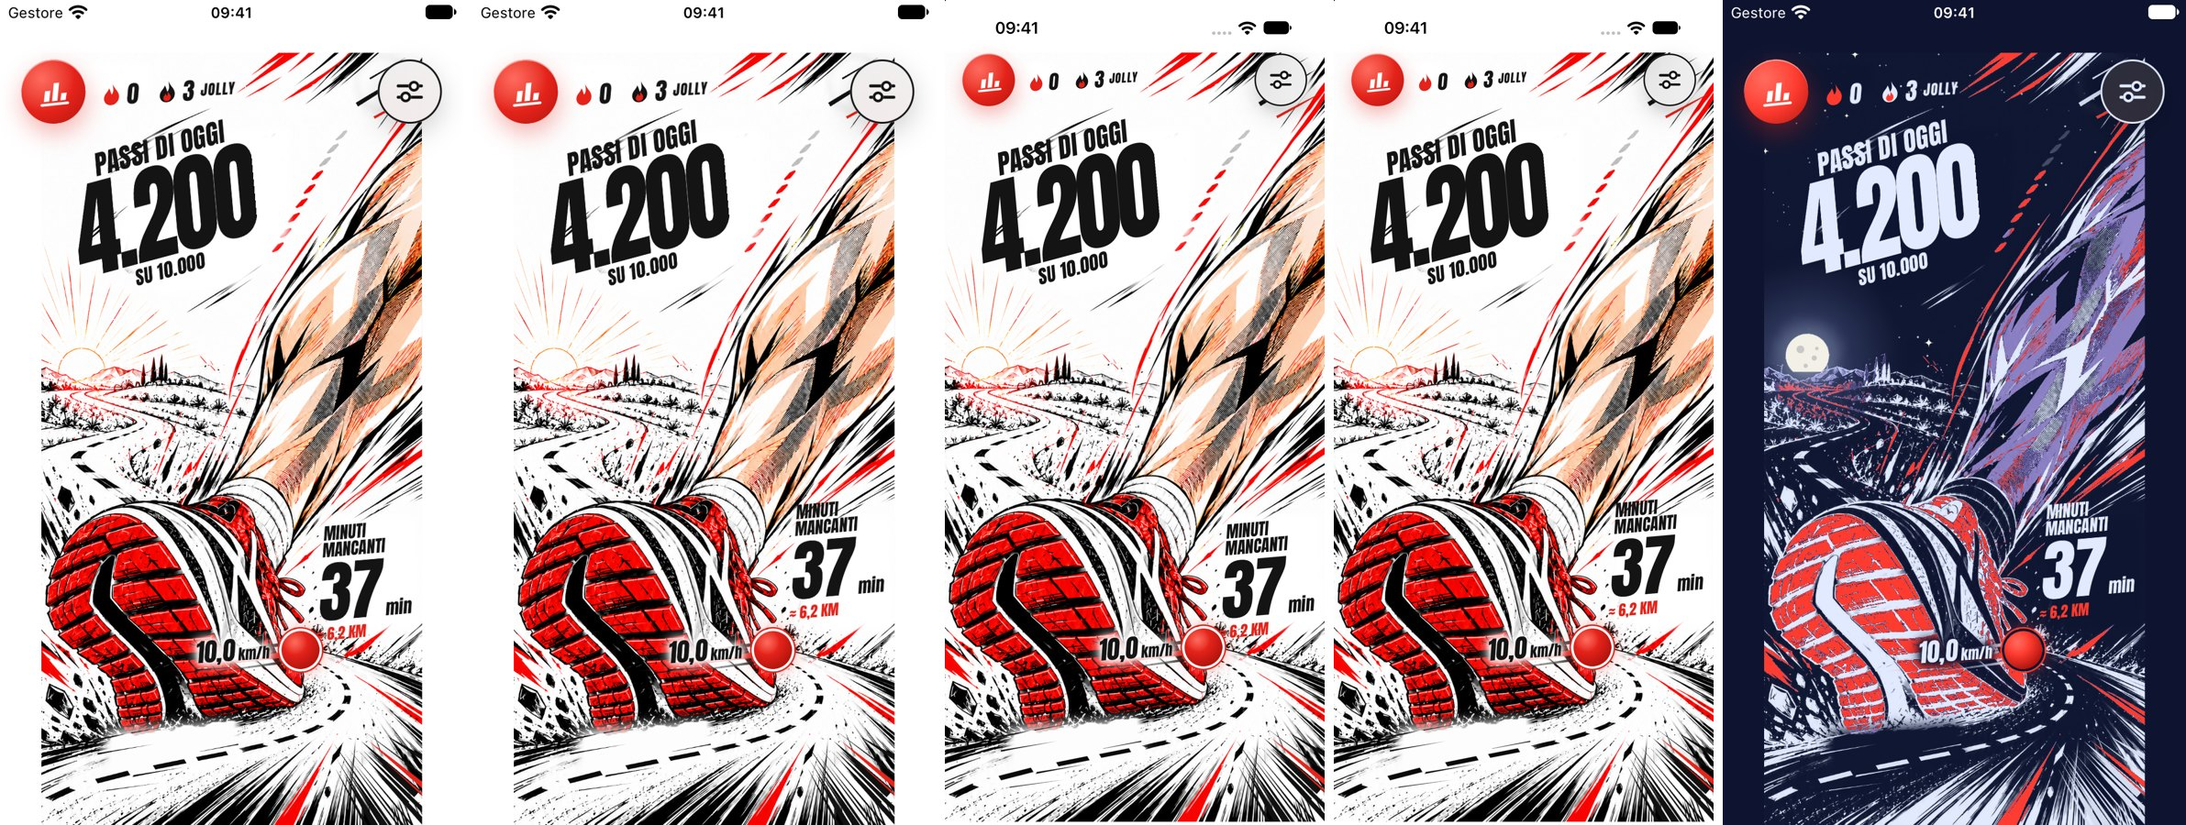
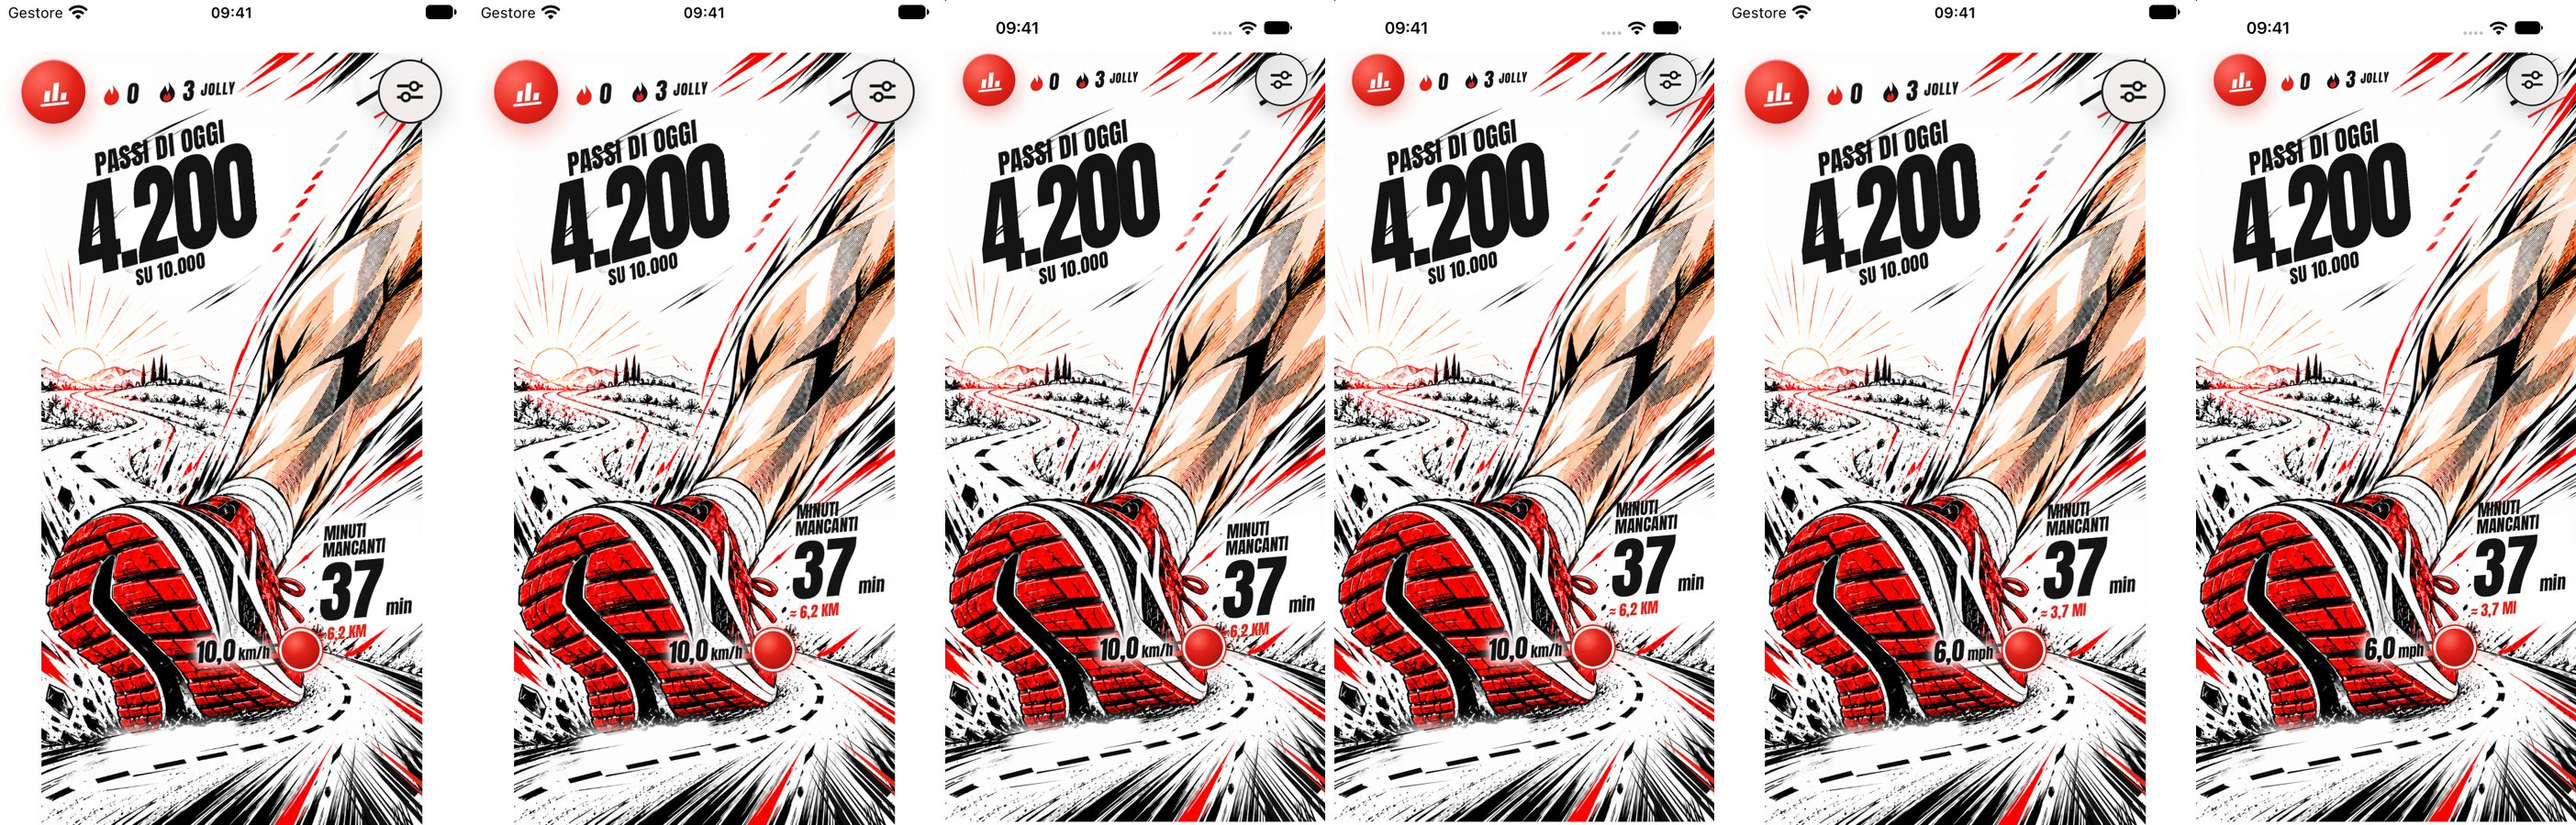
ios: T-018, correzioni dalla revisione (riempimento laterale, conti della coda, slitta), esito e screenshot

diff --git a/ios/App/Home/HomeView.swift b/ios/App/Home/HomeView.swift
@@ -11,6 +11,8 @@ struct HomeView: View {
     @State private var minutesWidth: CGFloat = 96
     @State private var doneWidth: CGFloat = 130
     @State private var motion = ParallaxMotion()
+    /// Never started: the leg of the soft fill on the sides stays still (rasterised once, T-018).
+    @State private var stillMotion = ParallaxMotion()
     @Environment(\.scenePhase) private var scenePhase
     @Environment(\.accessibilityReduceMotion) private var reduceMotion
     @Environment(\.season) private var season
@@ -25,16 +27,7 @@ struct HomeView: View {
             Board {
                 // in season the same scene drawn for it (snow in the picture, the boot as the leg, T-015 §2)
                 let look = season.map(SeasonLook.of)
-                if look != nil, side > 0 {
-                    // the scene to the edges of the screen, without bands: the same one, a little bigger and soft,
-                    // behind the real one (road and slider stay on the real one)
-                    scene(look)
-                        .scaleEffect((Manga.frameWidth + 2 * side) / Manga.frameWidth, anchor: .top)
-                        .blur(radius: 6, opaque: true)
-                        .accessibilityHidden(true)
-                        .at(0, Manga.artTop)
-                }
-                scene(look)
+                scene(look, motion: motion)
                     .at(0, Manga.artTop)
                 stepsBlock
                     .manga(rotate: -15, skew: -10, anchor: .topLeading)
@@ -64,6 +57,19 @@ struct HomeView: View {
             .animation(.easeInOut(duration: 0.25), value: store.plan.isDone)
         }
         .frame(width: size.width)
+        .background(alignment: .topLeading) {
+            // short phones, in season: the scene to the edges of the screen, without bands (T-018). The same one,
+            // stretched only across (every horizontal line meets the real one), soft and still, behind the canvas;
+            // road and slider stay on the real one. Drawn here, outside the canvas, in screen points.
+            if let look = season.map(SeasonLook.of), side > 0.5 {
+                scene(look, motion: stillMotion)
+                    .scaleEffect(x: size.width / Manga.frameWidth, y: s, anchor: .topLeading)
+                    .frame(width: size.width, height: Manga.artSize.height * s, alignment: .topLeading)
+                    .blur(radius: 6 * s, opaque: true)
+                    .offset(y: Manga.artTop * s)
+                    .accessibilityHidden(true)
+            }
+        }
         .onAppear { updateMotion() }
         .onDisappear { motion.stop() }
         .onChange(of: scenePhase) { _, _ in updateMotion() }
@@ -95,7 +101,7 @@ struct HomeView: View {
     }
 
     /// Illustration and leg (parallax), 390 × 790, clipped to their frame.
-    private func scene(_ look: SeasonLook?) -> some View {
+    private func scene(_ look: SeasonLook?, motion: ParallaxMotion) -> some View {
         ZStack(alignment: .topLeading) {
             Image(look?.homeArt(c.theme) ?? c.homeArt)
                 .resizable()

diff --git a/ios/App/StepsStore.swift b/ios/App/StepsStore.swift
@@ -315,8 +315,6 @@ final class StepsStore {
     func announceEvents() async {
         defer { eventsCheckedAt = Date() }
         guard history.eventsReady else { return }
-        // after a real Health read: the pop-up shows the Jollies counted with the gift
-        let gift = started && UIApplication.shared.applicationState == .active ? claimGift() : nil
         let now = Date()
         let calendar = controller.calendar
         let events = StreakEvents.events(in: history.streak, now: now, calendar: calendar)
@@ -325,6 +323,9 @@ final class StepsStore {
         let due = StreakEvents.toNotify(events, ledger: EventNotifier.ledger(now: now, calendar: calendar), now: now, calendar: calendar)
         await EventNotifier.notify(due, steps: steps, goal: goal, appActive: active, now: now, calendar: calendar)
         guard active else { return }
+        // after a real Health read, with the app on screen, together with the Jolly events of this same check (one
+        // reading of «active»: the gift is never left for a later check while the events go in the queue now)
+        let gift = started ? claimGift() : nil
         var ledger = EventNotifier.ledger(now: now, calendar: calendar)
         let show = StreakEvents.toShow(events, ledger: ledger, now: now, calendar: calendar)
         var batch = StreakEvents.popups(show).map { JollyPopupItem(event: $0.event, count: $0.count) }
@@ -334,16 +335,14 @@ final class StepsStore {
             EventNotifier.save(ledger, now: now, calendar: calendar)
             EventNotifier.withdraw(show)
         }
-        if let gift { batch.insert(gift, at: 0) }
-        guard !batch.isEmpty else { return }
-        // each pop-up shows the Jollies at its point of the queue, the last one those of now (T-018)
-        let counts = StreakEvents.stepCounts(final: history.streak.jolly, deltas: batch.map(\.delta))
-        for i in batch.indices { batch[i].jolly = counts[i] }
-        if gift != nil {
-            // first of the queue, but after a pop-up that may be on screen
-            popups.insert(batch.removeFirst(), at: popups.isEmpty ? 0 : 1)
-        }
+        guard gift != nil || !batch.isEmpty else { return }
+        let onScreen = !popups.isEmpty                     // the first one may already be shown: it stays as it is
+        if let gift { popups.insert(gift, at: onScreen ? 1 : 0) }   // first of the queue, after one on screen
         popups += batch
+        // each pop-up still waiting shows the Jollies at its point of the queue, the last one those of now (T-018)
+        let from = onScreen ? 1 : 0
+        let counts = StreakEvents.stepCounts(final: history.streak.jolly, deltas: popups[from...].map(\.delta))
+        for (k, i) in popups.indices.dropFirst(from).enumerated() { popups[i].jolly = counts[k] }
     }
 
     /// Christmas gift (D-040): at the first opening from 25/12 to 6/1, one Jolly more, with its pop-up first in

diff --git a/ios/App/Home/RoadSpeedSlider.swift b/ios/App/Home/RoadSpeedSlider.swift
@@ -97,8 +97,9 @@ struct RoadSpeedSlider: View {
     private static let sleighSize = CGSize(width: 92 * sleighScale, height: 42.4 * sleighScale)
     private static let sleighAnchor = CGPoint(x: 27.6 * sleighScale, y: 33.9 * sleighScale)
     private static let sleighLabelGap: CGFloat = 8
-    /// Least room between the sleigh and the left edge of the illustration.
-    private static let sleighEdgeMargin: CGFloat = 4
+    /// Least room between the sleigh's frame and the left edge of the illustration (its tilted tip reaches a few
+    /// pt further).
+    private static let sleighEdgeMargin: CGFloat = 10
 
     @ViewBuilder
     private func sleighAndLabel(_ name: String, at p: CGPoint, pose: SpeedTrack.Pose, flip: Bool) -> some View {
@@ -106,9 +107,10 @@ struct RoadSpeedSlider: View {
         let unit = UnitPoint(x: anchor.x / box.width, y: anchor.y / box.height)
         let left = pose.mirrored ? box.width - anchor.x : anchor.x       // sleigh's extent left / right of p
         let right = box.width - left
-        // the road starts at the left edge: at the lowest speeds the sleigh slides a little ahead along it, so it
-        // stays whole on screen (T-018)
+        // the road starts at the left edge: at the lowest speeds the sleigh slides a little ahead along it (rising
+        // with it), so it stays whole on screen (T-018)
         let push = max(0, Self.sleighEdgeMargin - (p.x - left))
+        let rise = push * tan(pose.rotation * .pi / 180)
         Image(name)
             .resizable()
             .frame(width: box.width, height: box.height)
@@ -116,13 +118,13 @@ struct RoadSpeedSlider: View {
             .scaleEffect(x: pose.mirrored ? -1 : 1, y: 1, anchor: unit)
             .animation(reduceMotion ? nil : .snappy(duration: 0.25), value: pose.mirrored)
             .rotationEffect(.degrees(pose.rotation), anchor: unit)
-            .offset(x: p.x - anchor.x + push, y: p.y - anchor.y)
+            .offset(x: p.x - anchor.x + push, y: p.y - anchor.y + rise)
             .accessibilityHidden(true)
         // the value beside the sleigh, on the side the knob's would be (`Manga.knobFlipX`), clear of the sleigh
         label
             .fixedSize()
             .frame(width: 0, height: 0, alignment: flip ? .trailing : .leading)
-            .offset(x: flip ? p.x - left - Self.sleighLabelGap : p.x + right + push + Self.sleighLabelGap, y: p.y - 10)
+            .offset(x: flip ? p.x - left - Self.sleighLabelGap : p.x + right + push + Self.sleighLabelGap, y: p.y - 10 + rise)
     }
 
     // MARK: trail

diff --git a/ios/App/JollyPopup.swift b/ios/App/JollyPopup.swift
@@ -6,8 +6,8 @@ import StepTellerCore
 struct JollyPopupItem: Identifiable, Equatable {
     enum Kind: Equatable { case used, earned, gift }
     let kind: Kind
-    /// Streak and Jollies after the event, for the texts. `jolly` is the count at this point of the queue
-    /// (`StreakEvents.stepCounts`), set by the store.
+    /// Streak after the event and Jollies at this point of the queue (`StreakEvents.stepCounts`, set by the store),
+    /// for the texts.
     let streak: Int
     var jolly: Int
     let count: Int

diff --git a/ios/tasks/T-018-correzioni-natale.md b/ios/tasks/T-018-correzioni-natale.md
@@ -44,3 +44,35 @@ senza crediti, in `docs/design/T-015-natale/asset/`.
 - Le misure restano 300 × 296 e 450 × 444, con il disegno centrato su fondo trasparente: la cornice di 128 × 126,3 pt in
   `JollyPopup` va bene così com'è.
 - Il Developer deve solo copiare i due PNG in `App/Assets.xcassets/RegaloJolly.imageset/`.
+**18/11/2026, Developer.** Fatto sul ramo `task/T-018-correzioni`, PR verso `main`, non unita. Screenshot prima/dopo
+in `tasks/T-018/`.
+1. **Icona di Natale**: i livelli PNG da 2048 px erano letti come 2048 pt su una tela da 1024. In `icon.json` ogni
+   livello ha `"position": {"scale": 0.5}`.
+   - Compilata con `actool`, è uguale a `icona-natale-1024.png`.
+   - Sul Simulatore è intera sulla Home chiara e scura e nell'avviso di iOS.
+   - La tinta non si prova sul Simulatore.
+   - Se il Director preferisce gli SVG del Designer, si sostituiscono e la scala si toglie.
+2. **Bande sull'SE**: a Natale, dietro la tela, la stessa scena allargata solo in orizzontale, ferma e sfumata. È
+   disegnata fuori dalla tela, nei punti dello schermo. Strada e cursore restano su quella vera; sui telefoni larghi
+   non viene disegnata.
+3. **Conti nella coda**: `StreakEvents.stepCounts` nel nucleo, con 5 test. L'ultimo pop-up mostra i Jolly di adesso,
+   ognuno prima di lui quelli prima del pop-up successivo.
+   - Il regalo si chiede insieme agli eventi dello stesso controllo, con un solo «app attiva»: prima poteva arrivare
+     dopo «usato».
+   - Si ricontano tutti i pop-up in attesa, tranne quello sullo schermo.
+   - Simulatore: regalo 5 → usato 4 (Home 4); regalo 3 → guadagnato 4 → festa.
+4. **Pomello a 10 km/h**: il blocco dei minuti sale di 22 pt anche fuori stagione (46 con la slitta). Il pomello non
+   copre i km a 10 km/h né a 6 mph, su SE e 17 Pro Max.
+5. **«SALUTE» sulla luna**: alone `paper` sulla riga del percorso, come «MINUTI».
+6. **Slitta a 3 km/h**: si sposta un poco avanti lungo la strada e sale con essa, fino a restare a 10 pt dal bordo.
+8. Asset del regalo del Designer (#45) copiati; il pop-up non ha più il bordo quadrato.
+
+- `swift test`: 117 test verdi. Debug e Release ok.
+- Revisione indipendente, corretti:
+  - il riempimento allungato anche in verticale;
+  - il riempimento disegnato su tutti i telefoni e a ogni movimento;
+  - i conti con una coda già in attesa;
+  - la slitta spostata che non saliva con la strada.
+- Da guardare: il blocco dei minuti più in alto di 22 pt anche fuori stagione è un piccolo cambio della Home normale
+  (Director o Designer).
+

diff --git a/ios/CHANGELOG.md b/ios/CHANGELOG.md
@@ -65,11 +65,12 @@ numeri, Novità per lo store e procedura in `RILASCIO.md`. Prima della 1.0 le se
   Natale la slitta è più grande del 35% e il blocco «minuti mancanti» sale di 46 pt, così la slitta non lo copre;
   «MINUTI MANCANTI» ha un alone `paper`, solo a Natale, per leggersi sulla pelliccia dello stivale.
 - Correzioni dal collaudo del Natale (T-018, collaudo T-017): l'icona di Natale non è più ingrandita (i livelli PNG
-  da 2048 px valgono 1024 pt: scala 0,5 in `icon.json`); sui telefoni bassi (SE) le bande ai lati della Home di Natale
-  sono riempite con la stessa scena più grande e sfumata dietro quella vera (strada e cursore invariati); nella coda dei
+  da 2048 px erano letti come 2048 pt su una tela da 1024: scala 0,5 in `icon.json`); sui telefoni bassi (SE) le bande ai lati della Home di Natale
+  sono riempite con la stessa scena allargata e sfumata dietro quella vera (strada e cursore invariati); nella coda dei
   pop-up ogni pop-up mostra i Jolly a quel punto della coda (`StreakEvents.stepCounts`, con test: regalo 3 → guadagnato
   4); a 10 km/h il pomello non copre più i km (blocco dei minuti 22 pt più in alto anche fuori stagione); «SALUTE →
-  CONDIVISIONE…» con l'alone `paper`, leggibile sulla luna di notte; la slitta a 3 km/h resta tutta dentro lo schermo.
+  CONDIVISIONE…» con l'alone `paper`, leggibile sulla luna di notte; la slitta a 3 km/h resta tutta dentro lo schermo;
+  illustrazione del regalo senza bordo quadrato (asset del Designer, #45).
 
 ## 1.1 — pubblicata il 18 novembre 2026, build 1.97.1
 - Copia in iCloud: inizio della streak, storico degli obiettivi, obiettivo, velocità, unità, promemoria (acceso e
